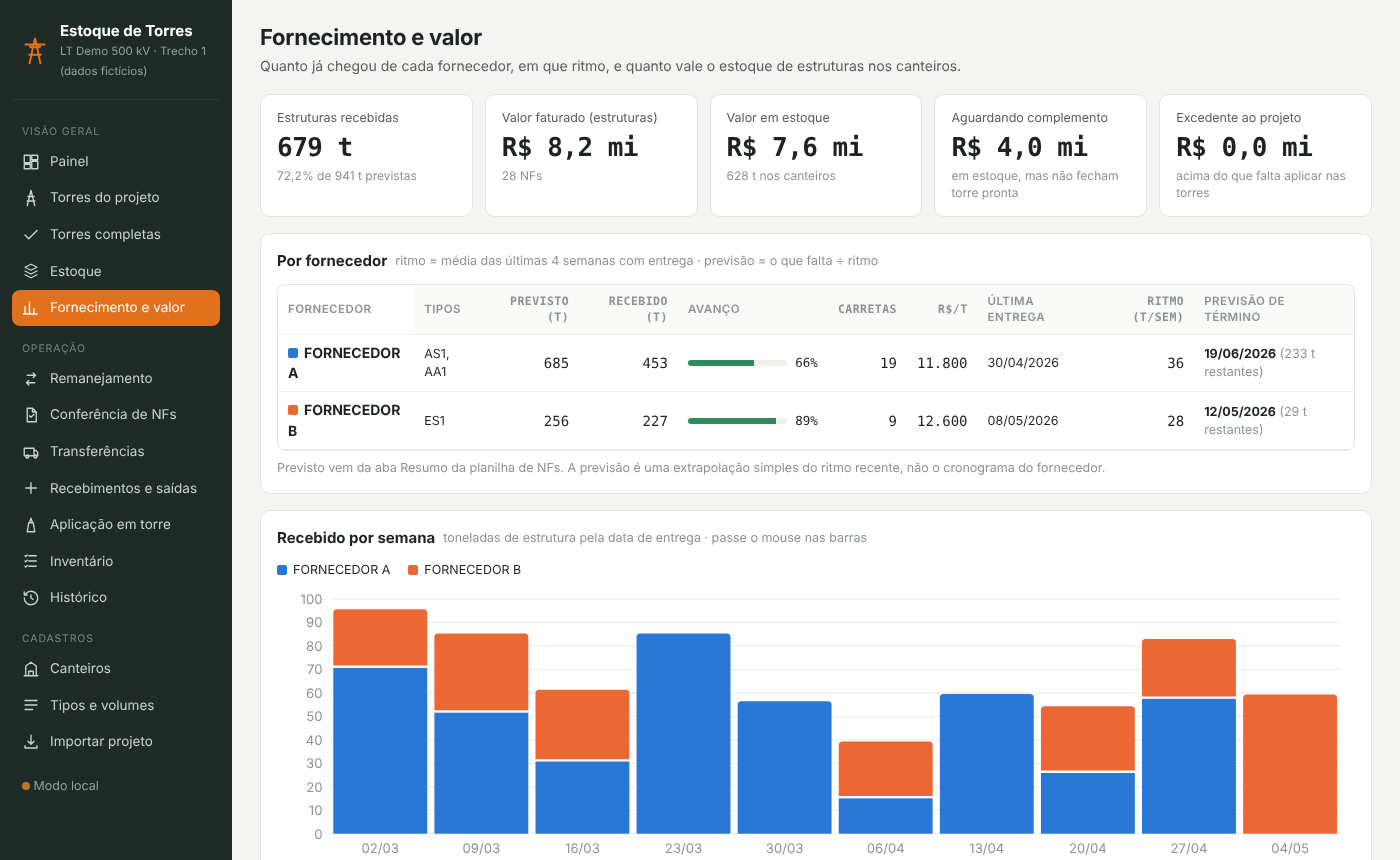
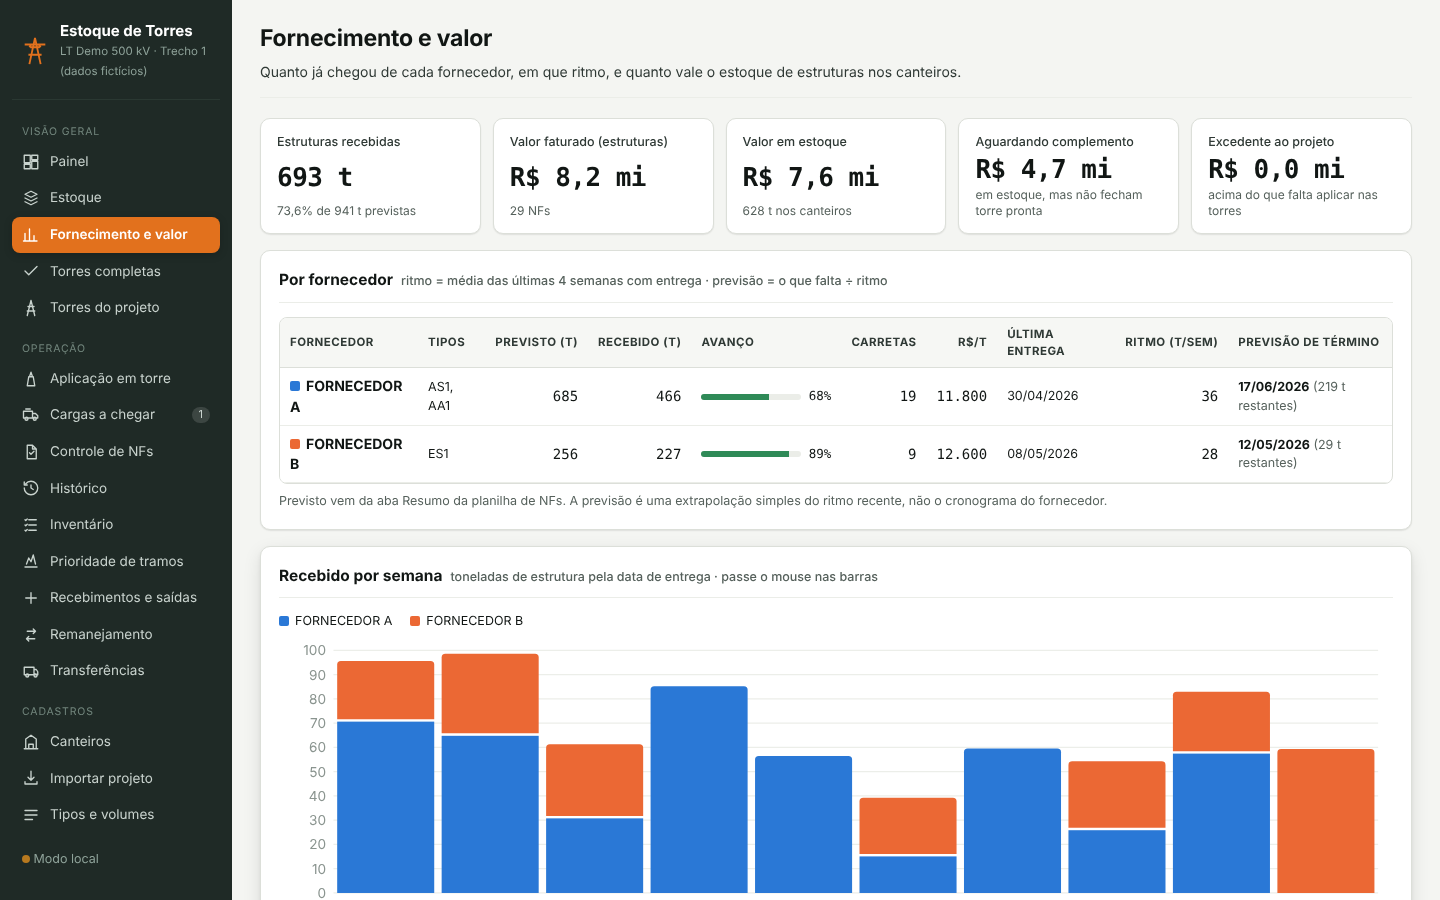
docs: exemplos fictícios de romaneio e controle de NFs e novas capturas de tela
Claude-Session: https://claude.ai/code/session_013rQasPaevgvGvcGdeYSVzn

diff --git a/ferramentas/demo/gerar_exemplos_cargas_nfs.py b/ferramentas/demo/gerar_exemplos_cargas_nfs.py
@@ -1,0 +1,51 @@
+"""Gera exemplos FICTÍCIOS para testar, sem dados reais:
+
+  docs/exemplos/controle-nfs-empreiteira-demo.xlsx -> controle de notas da empreiteira (formato "Materiais Controle NF"),
+      derivado do controle interno de demonstração, com algumas diferenças de propósito
+      (nota faltando de cada lado, peso diferente, RNC, NF não enviada ao contratante)
+  docs/exemplos/romaneio-demo.xlsx                 -> romaneio de uma carga a chegar, com volumes do catálogo demo
+      e uma peça sem cadastro (para testar o cadastro automático)
+
+Uso:  python3 ferramentas/demo/gerar_exemplos_cargas_nfs.py
+"""
+import json, pathlib, datetime as dt
+import openpyxl
+
+RAIZ = pathlib.Path(__file__).resolve().parents[2]
+EX = RAIZ / 'docs' / 'exemplos'
+demo = json.loads((RAIZ / 'web' / 'dados-demo.json').read_text())
+
+# ---- controle de notas da empreiteira, a partir do controle interno demo ----
+src = openpyxl.load_workbook(EX / 'controle-nfs-demo.xlsx', data_only=True)['Notas']
+linhas = [r for r in src.iter_rows(min_row=6, values_only=True) if r[2]]
+wb = openpyxl.Workbook(); ws = wb.active; ws.title = 'Controle NF'
+ws.append([]); ws.append([None, 'CONTROLE DE NOTAS – EMPREITEIRA DEMO (dados fictícios)']); ws.append([])
+ws.append([None, 'LT', 'FORNECEDOR', 'CARGA', 'PLACA', 'DATA NF', 'DESCRIÇÃO', 'RECEBIDO NA OBRA', 'ENVIADO NF CONTRATANTE', 'CANTEIRO',
+           'NOTA', 'CT-E', 'ROMANEIO', 'FATURA', 'LOGÍSTICA', 'RNC', 'VALOR NF', 'PESO LIQUIDO', 'PESO BRUTO'])
+for i, r in enumerate(linhas):
+    if i == 3:            # uma nota que a empreiteira não lançou
+        continue
+    nf, forn, ton, emis, entr, can, val, obs = r[2], r[5], r[6] or 0, r[8], r[9], r[14], r[16], r[19] or ''
+    rom = obs.replace('ROM.:', '').strip()
+    peso = ton * 1000 * (0.8 if i == 5 else 1)          # peso diferente de propósito
+    env = None if i in (1, 2) else (entr + dt.timedelta(days=1) if entr else None)
+    ws.append([None, 'DEMO', forn, '%dA' % (i + 1), 'ABC%dD%02d' % (i % 10, i), emis, 'ESTRUTURA METÁLICA', entr, env,
+               (can or '').title(), '%06d' % nf, None, rom, 'Contratante', 'Transportadora Demo', 'faltou 1 volume' if i == 7 else None,
+               val, round(peso, 1), round(peso * 1.02, 1)])
+f = linhas[0]
+ws.append([None, 'DEMO', f[5], '99A', 'XYZ9Z99', f[8], 'ESTRUTURA METÁLICA', f[9], None, (f[14] or '').title(), '009999', None, '9999',
+           'Contratante', 'Transportadora Demo', None, 12345.67, 1500.0, 1530.0])   # nota que falta no controle interno
+wb.save(EX / 'controle-nfs-empreiteira-demo.xlsx')
+
+# ---- romaneio de uma carga a chegar ----
+tp = next(t for t in demo['tipos'] if t['regra']['modo'] == 'autoportante')
+wb = openpyxl.Workbook(); ws = wb.active; ws.title = 'Romaneio'
+ws.append(['FORNECEDOR A – ROMANEIO DE CARGA (dados fictícios)'])
+ws.append(['ROMANEIO Nº 7999', '', 'NF 999', 'DATA', '10/03/2026'])
+ws.append(['DESTINO: CANTEIRO NORTE']); ws.append([])
+ws.append(['ITEM', 'TORRE', 'DESCRIÇÃO DO VOLUME', 'QTD VOL', 'PESO (KG)'])
+for i, v in enumerate(tp['volumes'][:6], 1):
+    ws.append([i, tp['id'], v['nome'], 2, round(2 * (v.get('pesoKg') or 100), 1)])
+ws.append([7, tp['id'], 'PEÇA EXTRA SEM CADASTRO (V1/1)', 1, 80.0])
+wb.save(EX / 'romaneio-demo.xlsx')
+print('ok:', EX / 'controle-nfs-empreiteira-demo.xlsx', EX / 'romaneio-demo.xlsx')
